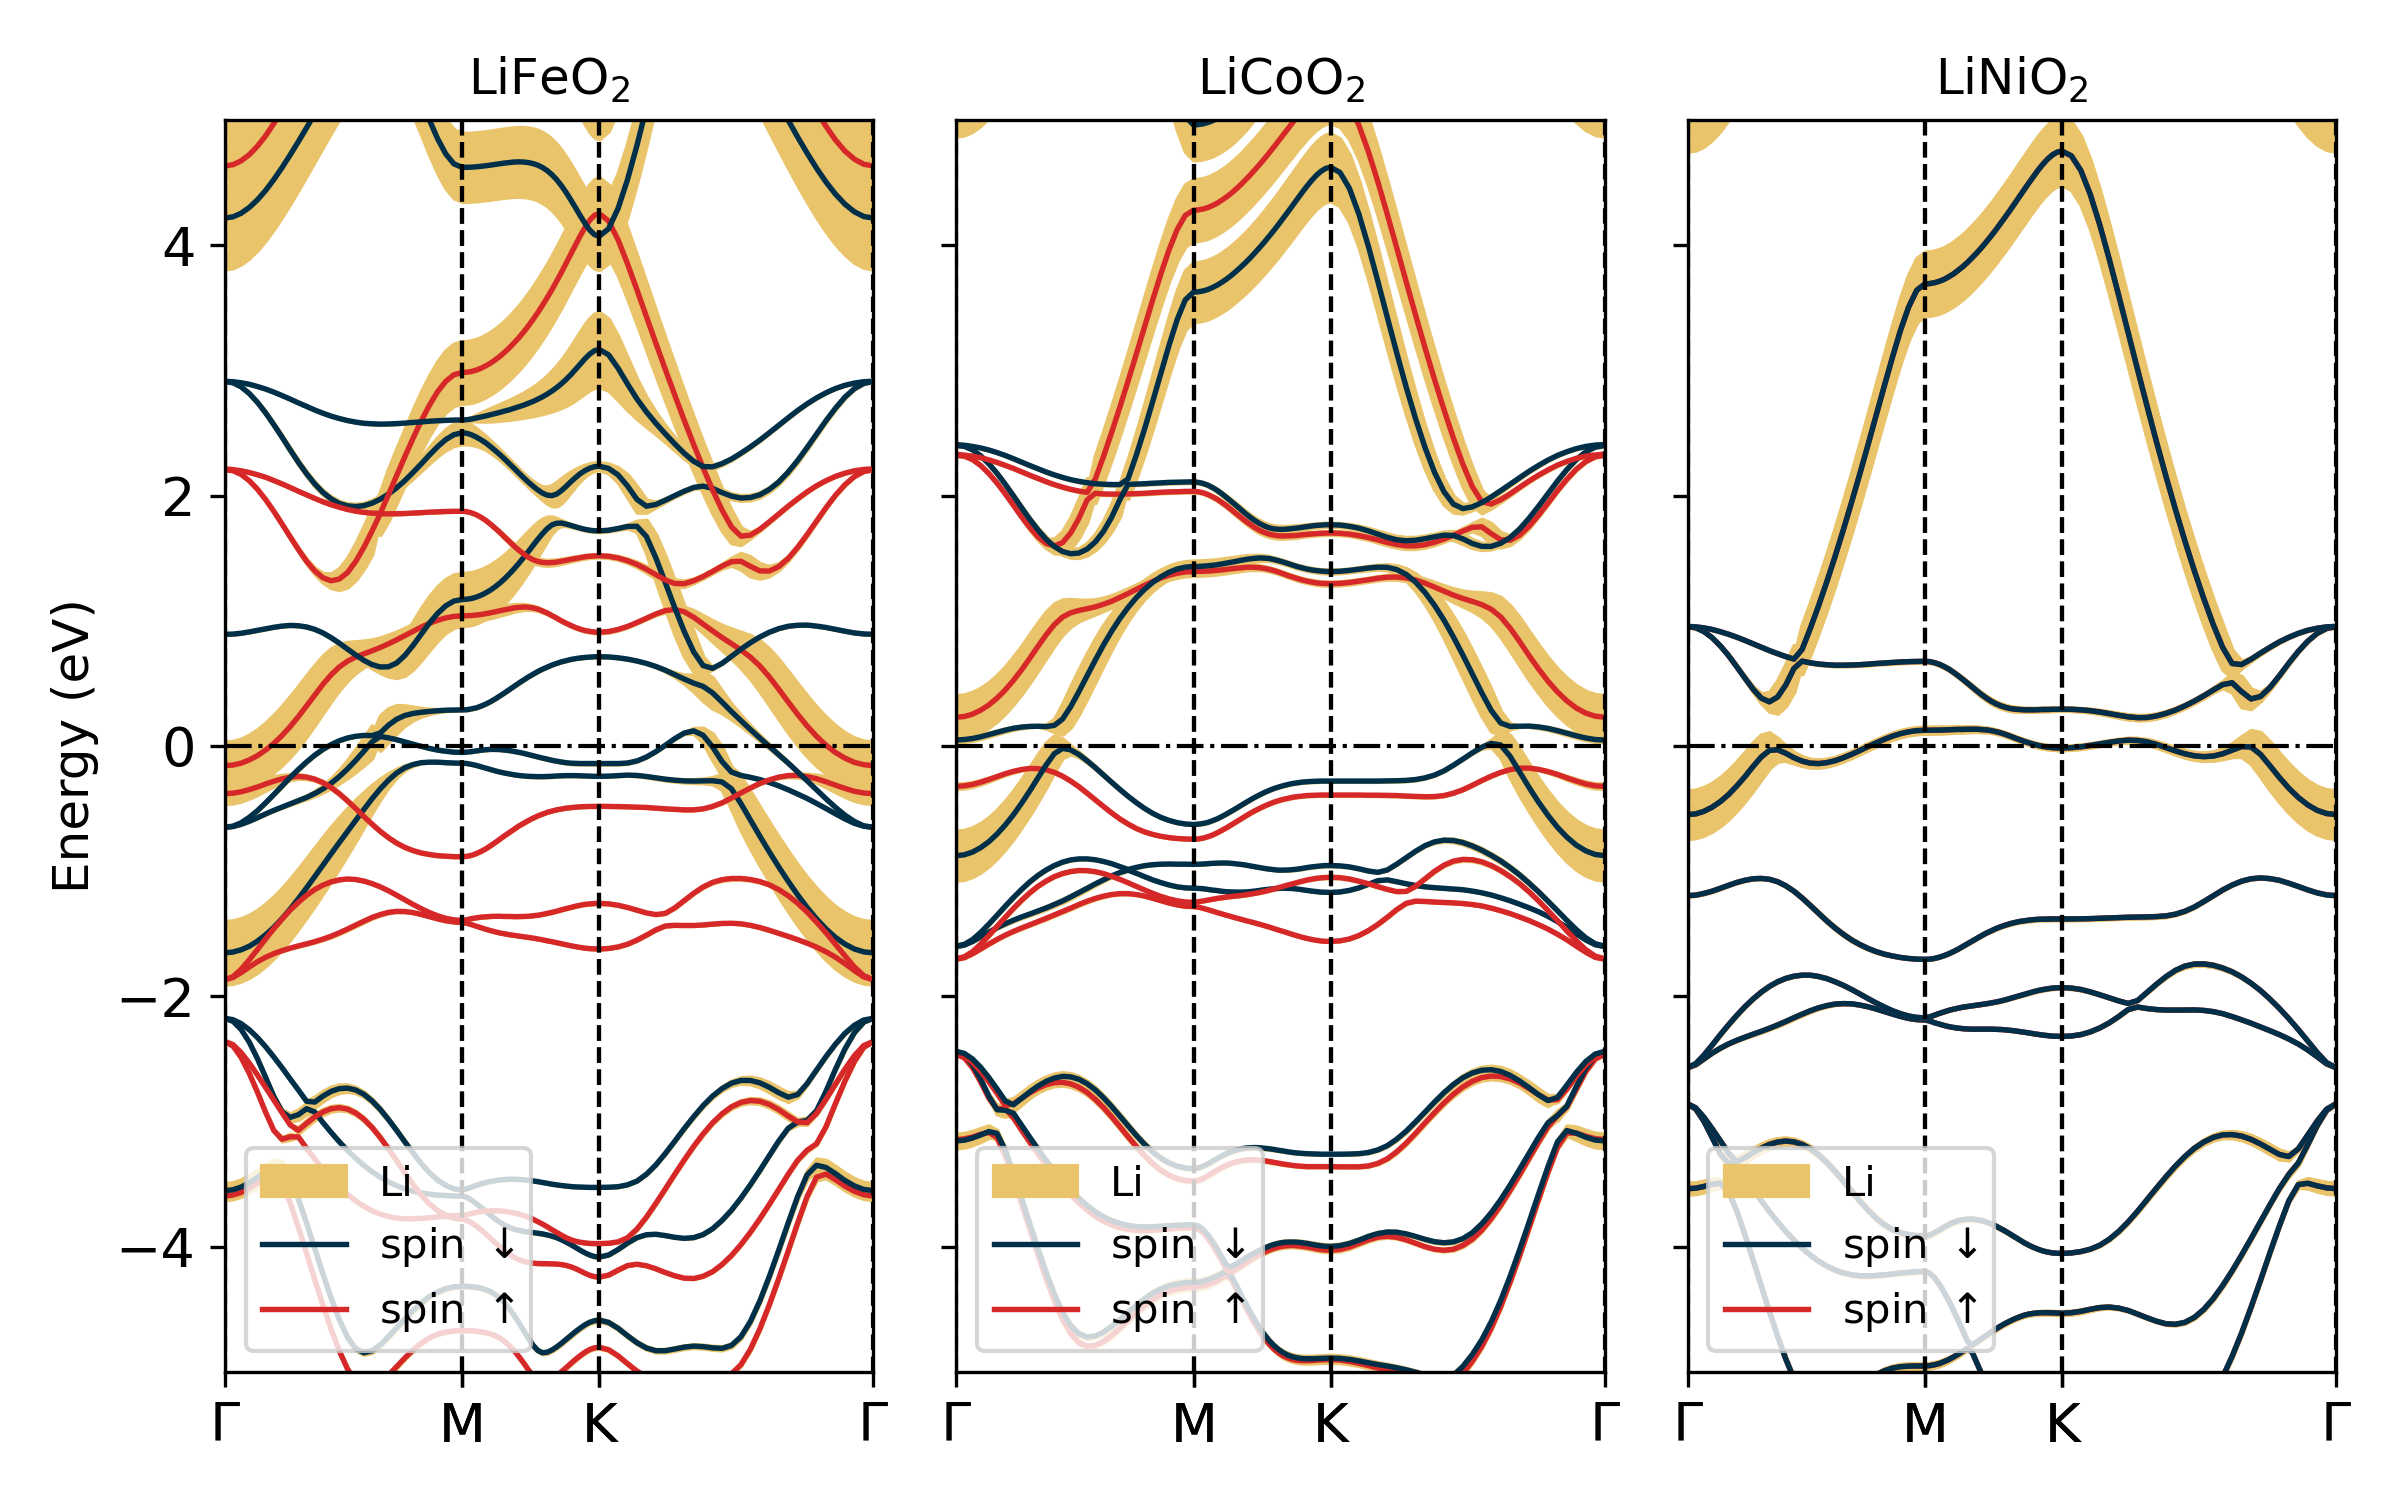
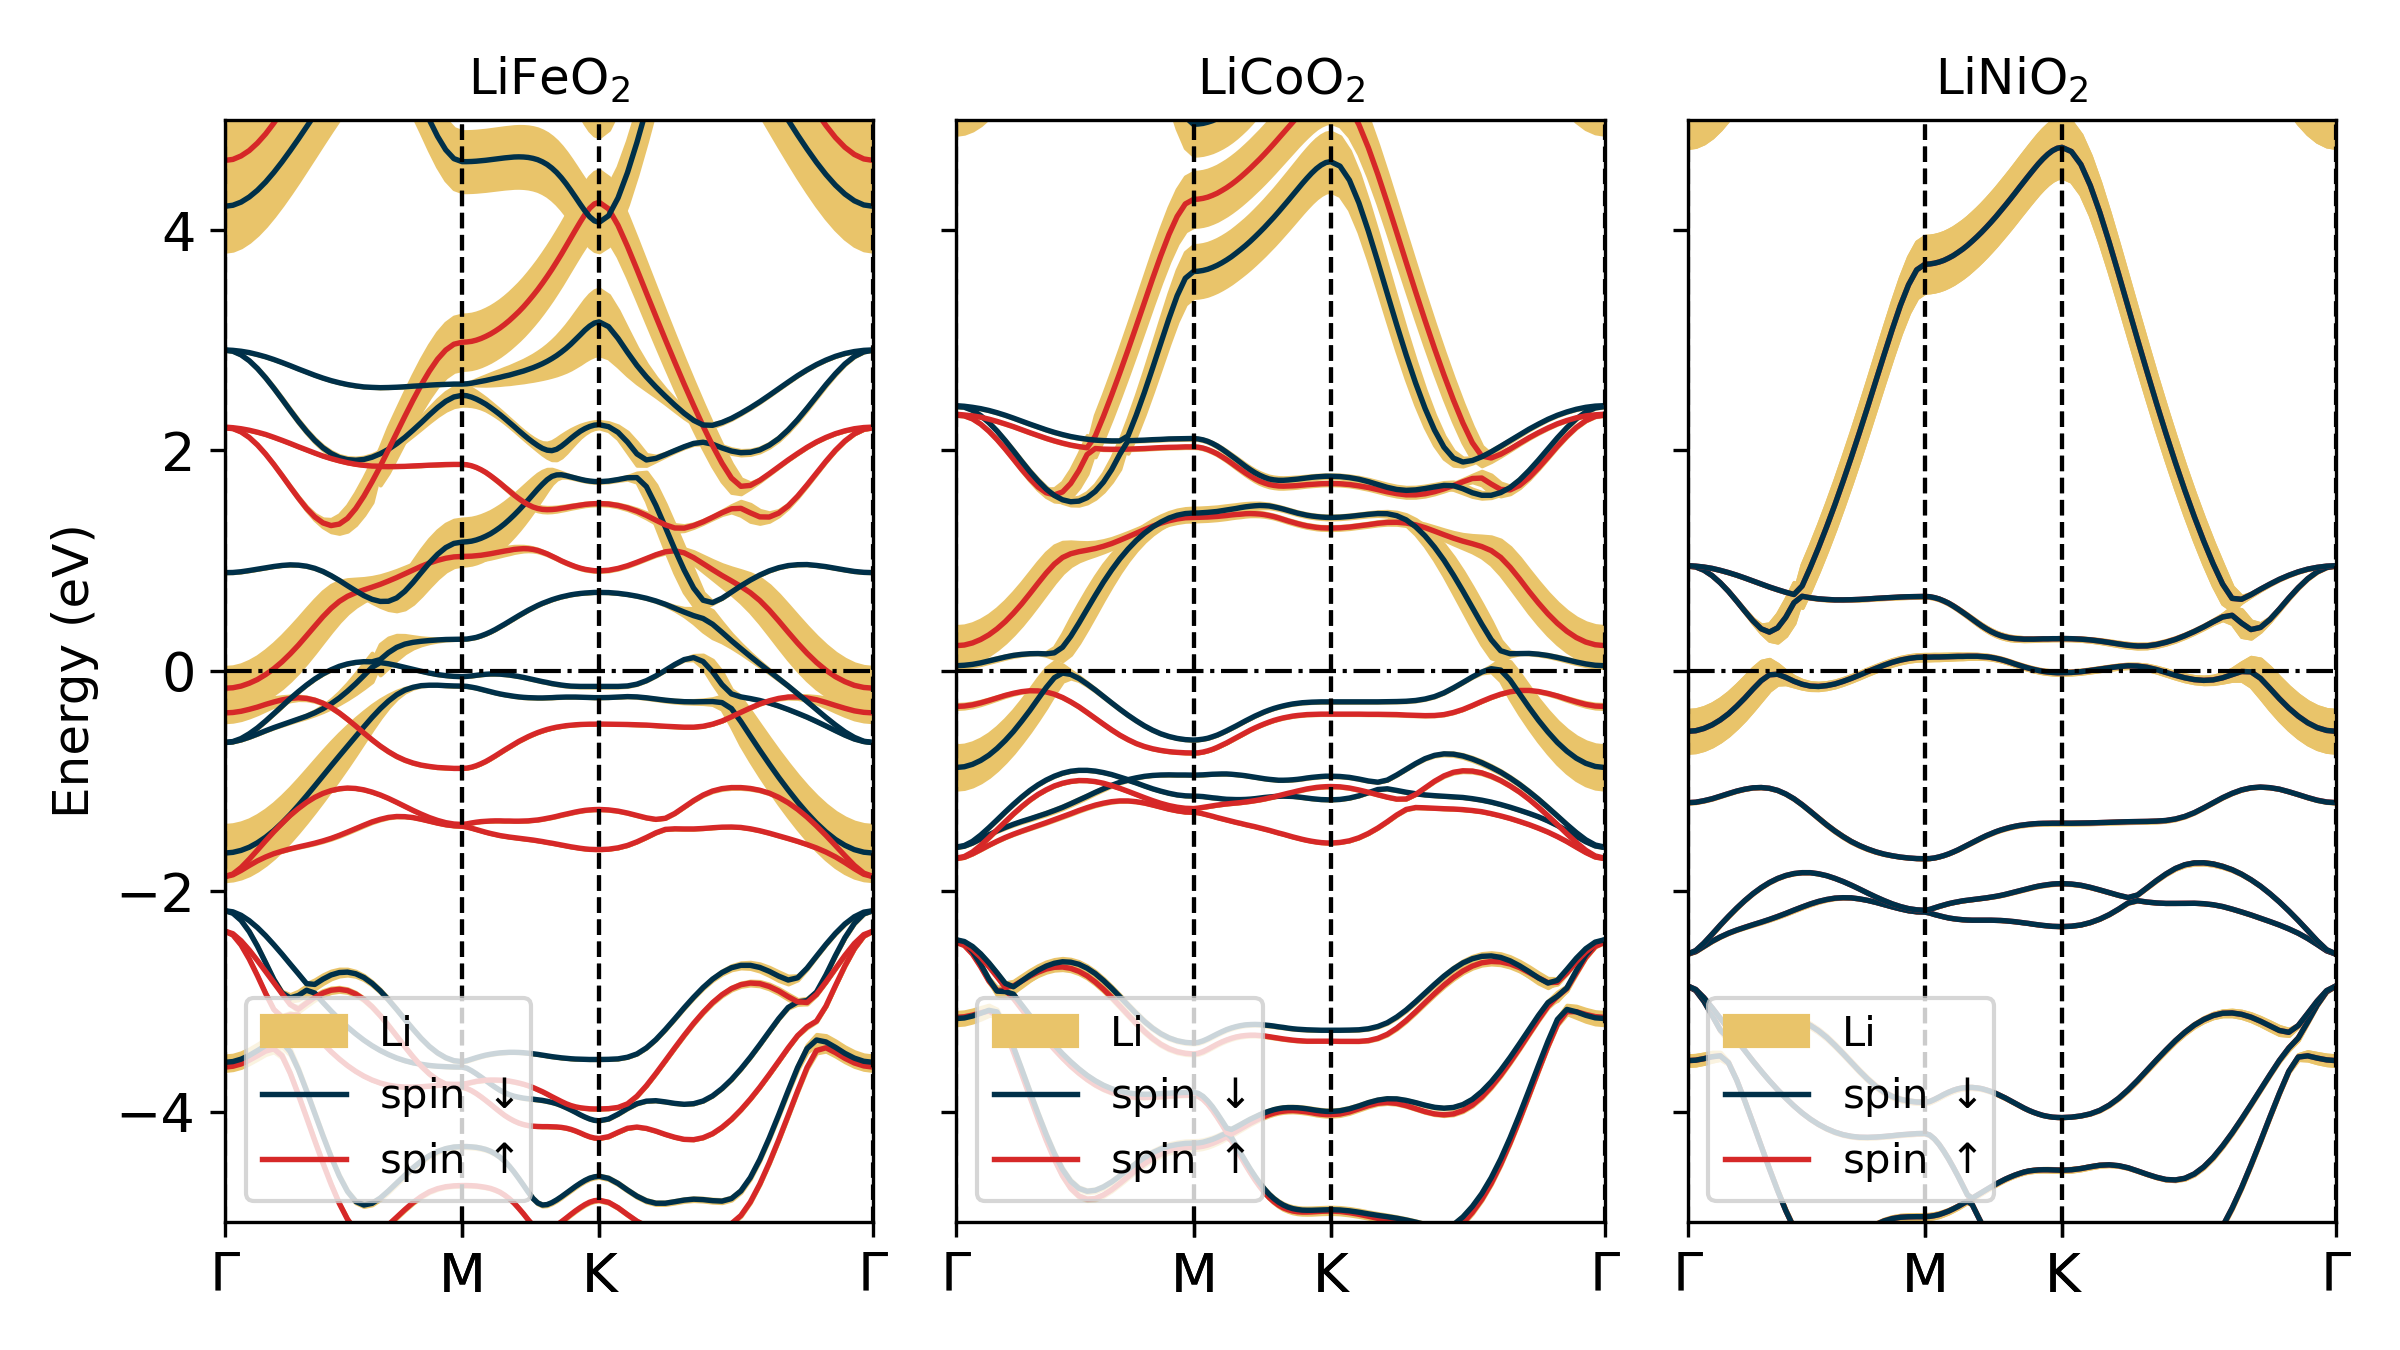
added a module

diff --git a/src/band_structures.py b/src/band_structures.py
@@ -1,0 +1,81 @@
+import sys
+sys.path.append('/Users/santy/odrive/Google Drive/github projects/questaal-reader')
+from questaal_reader import get_bands
+from pymatgen.electronic_structure.plotter import BSPlotter as bp
+import matplotlib.pyplot as plt
+import matplotlib.lines as mlines
+import numpy as np
+ry2ev = 13.605662285137
+
+def get_weights(bnds_file="data/lifeo2/bnds_color.temp"):
+    """Gets the band structure contribution from bnds file
+
+    Args:
+        bnds_file (str, optional): bands file. Defaults to "data/lifeo2/bnds_color.temp".
+
+    Returns:
+        array: Li contributions
+    """    
+    with open(bnds_file, 'r') as f:
+        lines = f.read().splitlines()
+    neval=int(lines[0].split()[0])
+    # ncol=np.sum([1 if "col" in i  else 0 for i in lines[0].split()])
+    ncol=int(lines[0].split()[2])
+    nkpts=float(lines[1])
+    kpts=[list(map(float,i.split())) for i in lines[2:] if "   " in i and len(i.split())==3]
+    kpts=np.array(kpts)
+    kpts_positions=[j+3 for j,i in enumerate(lines[2:]) if "   " in i and len(i.split())==3]
+    from itertools import groupby
+    kpts_rep,_=[(len(list(values)), key) for key, values in groupby(kpts.T[0])][0]
+    nsp=  int(kpts_rep/(2*ncol)) if ncol!=0 else int(kpts_rep)
+    energies=[]
+    for i in kpts_positions:
+        vals=[]
+        tmp=0
+        while len(vals)<=neval:
+            vals=vals+list(map(float,lines[i+tmp].split()))
+            tmp+=1
+        energies.append(vals[:neval])
+    energies=np.array(energies)*ry2ev
+
+    Li_spin1=energies[1::4].T
+    Li_spin2=energies[3::4].T
+    return Li_spin1,Li_spin2
+
+def plot_Li(ax,folder="data/lifeo2/"):
+    
+    scale=2.1e-2
+    Li_spin1,Li_spin2=get_weights(bnds_file=folder+"bnds_color.temp")
+    p=get_bands(folder+"bnds.temp")
+    bp_plot=bp(p).bs_plot_data()
+    d=bp_plot['distances']
+    d=np.array(d).flatten()
+    e_up=bp_plot['energy']['1']
+    e_down=bp_plot['energy']['-1']
+    for nbnd in range(np.array(e_up).shape[2]):
+        energy_up=np.array(e_up)[:,nbnd,:].flatten()
+        ax.plot(d,energy_up,c="#d62828",lw=1.3,label="spin $\\uparrow$")
+        
+        energy_down=np.array(e_down)[:,nbnd,:].flatten()
+        ax.plot(d,energy_down,c="#003049",ls="-",lw=1.3,label="spin $\\downarrow$")
+
+        # ax.scatter(d,energy_down,Li_spin2[nbnd]*scale,facecolor="none",edgecolor="#f94144")
+        # ax.scatter(d,energy_up,Li_spin1[nbnd]*scale,facecolor="none",edgecolor="#f94144")
+        ax.fill_between(d,energy_down-Li_spin2[nbnd]*scale,energy_down+Li_spin2[nbnd]*scale,color="#e9c46a")
+        ax.fill_between(d,energy_up-Li_spin1[nbnd]*scale,energy_up+Li_spin1[nbnd]*scale,color="#e9c46a",label="Li")
+        
+    for j,i in enumerate(bp_plot['ticks']["distance"]):
+            ax.axvline(i,c="k",ls="--",lw=1)
+    for j,i in enumerate ([ax]):
+        fs=13
+        i.tick_params(axis='y',labelsize=fs)
+        i.set_xticks(bp_plot['ticks']["distance"])
+        i.set_xticklabels(bp_plot['ticks']["label"],fontsize=fs)
+        i.axhline(0,ls="-.",c="k",lw=1)
+        i.set_ylim(-5,5)
+        i.autoscale(enable=True, axis='x', tight=True)
+        i.legend()
+        handles, labels = i.get_legend_handles_labels()
+        labels, ids = np.unique(labels, return_index=True)
+        handles = [handles[i] for i in ids]
+        i.legend(handles, labels, loc='lower left')
